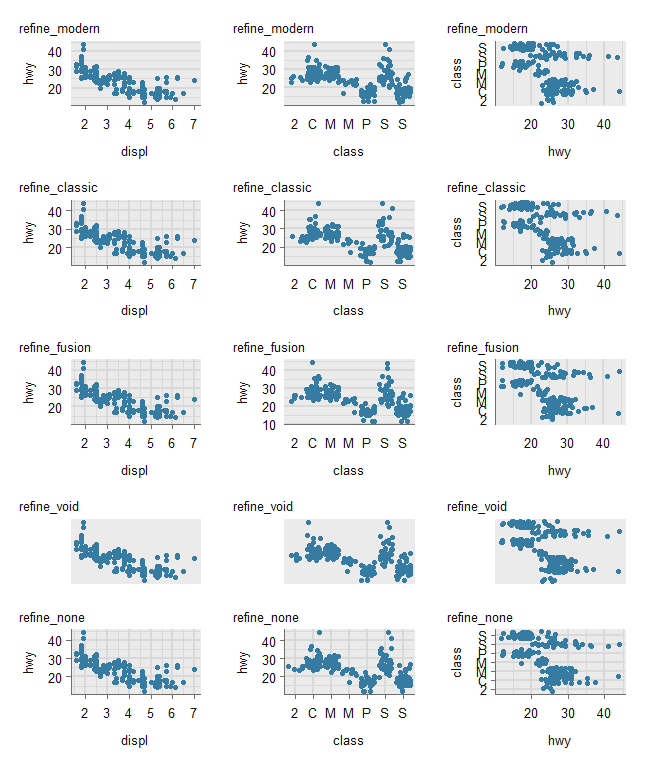
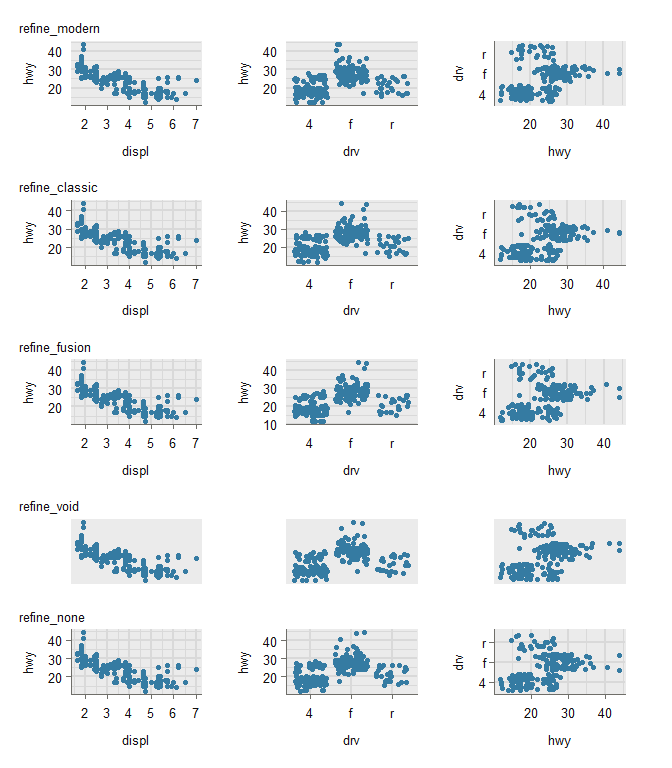
Update

diff --git a/README.md b/README.md
@@ -73,31 +73,29 @@ p_continuous <- mpg |>
   geom_point(shape = 21)
 
 p_discrete_x <- mpg |>
-  ggplot(aes(x = class, y = hwy)) +
-  geom_jitter(shape = 21) +
-  scale_x_discrete(labels = \(x) stringr::str_to_upper(stringr::str_sub(x, start = 1, 1)))
+  ggplot(aes(x = drv, y = hwy)) +
+  geom_jitter(shape = 21) 
 
 p_discrete_y <- mpg |>
-  ggplot(aes(x = hwy, y = class)) +
-  geom_jitter(shape = 21) +
-  scale_y_discrete(labels = \(x) stringr::str_to_upper(stringr::str_sub(x, start = 1, 1)))
+  ggplot(aes(x = hwy, y = drv)) +
+  geom_jitter(shape = 21) 
 
 wrap_plots(
   p_continuous + refine_modern() + labs(title = "refine_modern"),
-  p_discrete_x + refine_modern(x_type = "discrete") + labs(title = "refine_modern"),
-  p_discrete_y + refine_modern(y_type = "discrete") + labs(title = "refine_modern"),
+  p_discrete_x + refine_modern(x_type = "discrete"),
+  p_discrete_y + refine_modern(y_type = "discrete"),
   p_continuous + refine_classic() + labs(title = "refine_classic"),
-  p_discrete_x + refine_classic(x_type = "discrete") + labs(title = "refine_classic"),
-  p_discrete_y + refine_classic(y_type = "discrete") + labs(title = "refine_classic"),
+  p_discrete_x + refine_classic(x_type = "discrete"),
+  p_discrete_y + refine_classic(y_type = "discrete"),
   p_continuous + refine_fusion() + labs(title = "refine_fusion"),
-  p_discrete_x + refine_fusion(x_type = "discrete") + labs(title = "refine_fusion"),
-  p_discrete_y + refine_fusion(y_type = "discrete") + labs(title = "refine_fusion"),
+  p_discrete_x + refine_fusion(x_type = "discrete"),
+  p_discrete_y + refine_fusion(y_type = "discrete"),
   p_continuous + refine_void() + labs(title = "refine_void"),
-  p_discrete_x + refine_void(x_type = "discrete") + labs(title = "refine_void"),
-  p_discrete_y + refine_void(y_type = "discrete") + labs(title = "refine_void"),
+  p_discrete_x + refine_void(x_type = "discrete"),
+  p_discrete_y + refine_void(y_type = "discrete"),
   p_continuous + refine_none() + labs(title = "refine_none"),
-  p_discrete_x + refine_none(x_type = "discrete") + labs(title = "refine_none"),
-  p_discrete_y + refine_none(y_type = "discrete") + labs(title = "refine_none"),
+  p_discrete_x + refine_none(x_type = "discrete"),
+  p_discrete_y + refine_none(y_type = "discrete"),
   ncol = 3
 )
 ```
